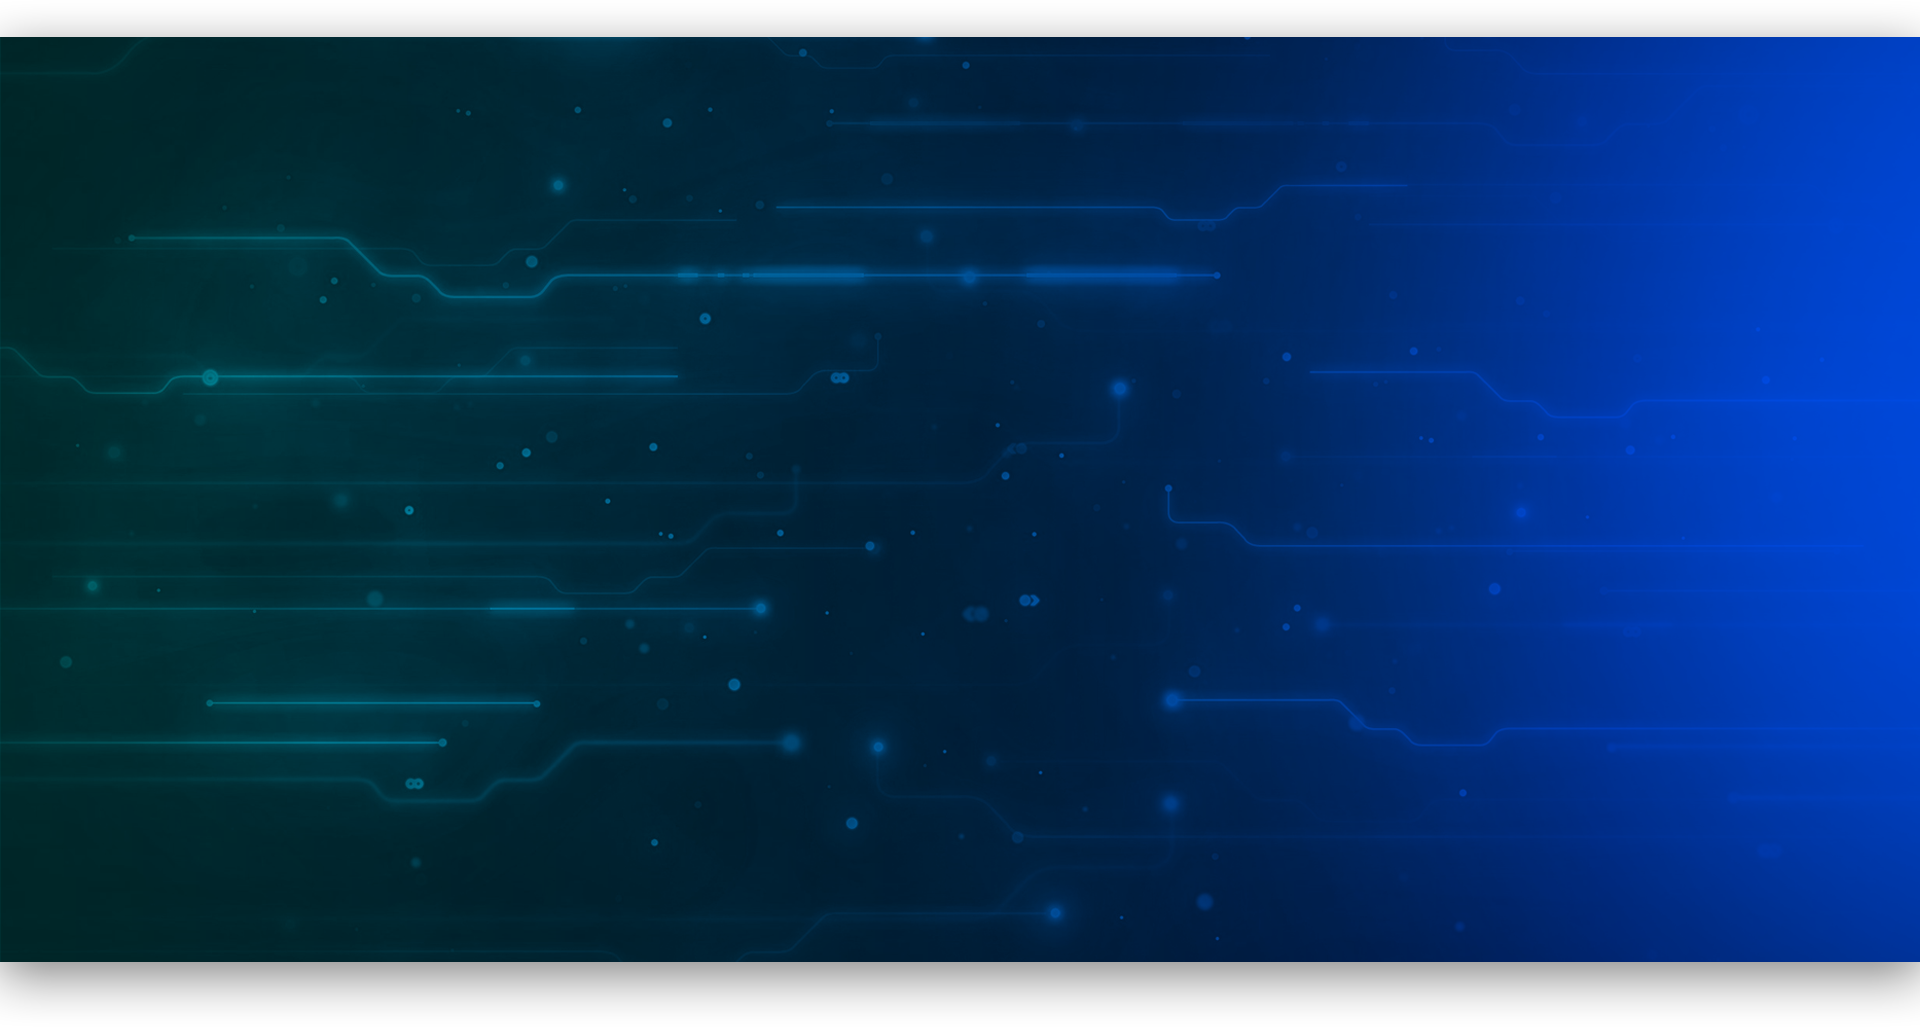
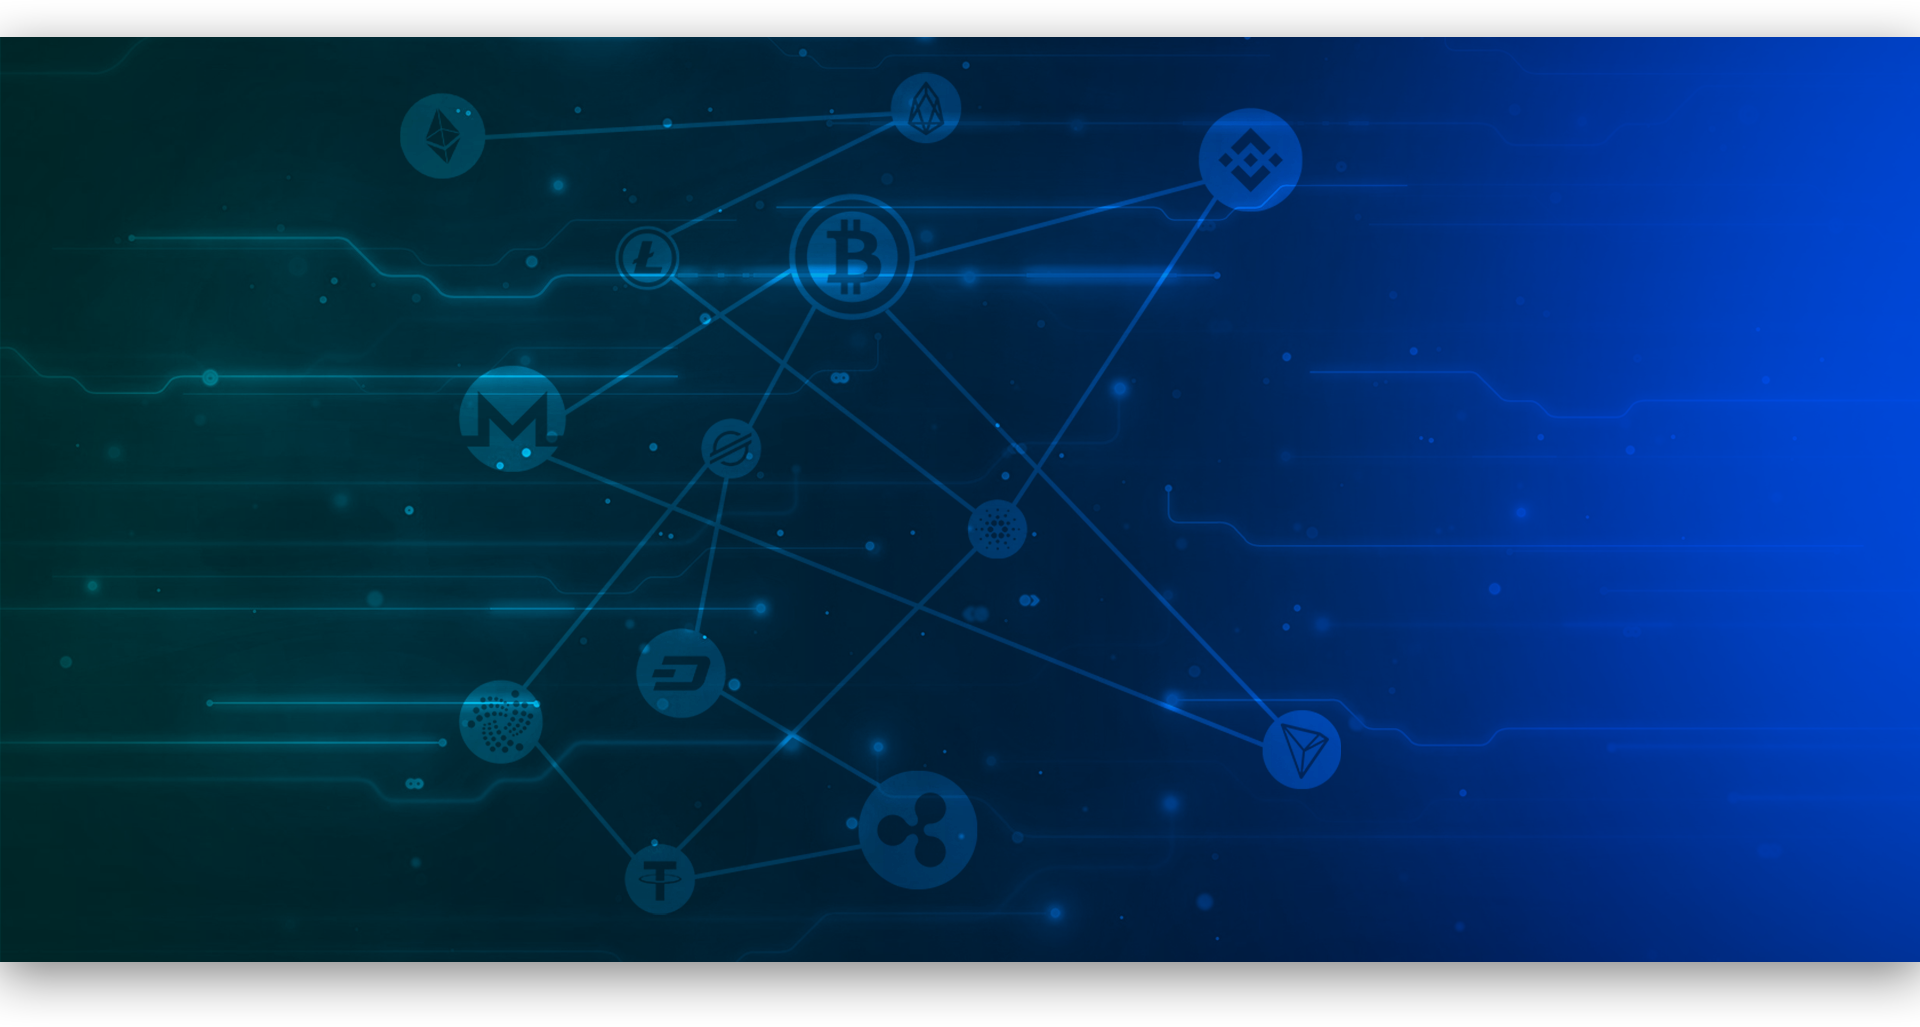
Adicionando o carousel

diff --git a/index.html b/index.html
@@ -5,10 +5,11 @@
       <meta charset="UTF-8">
       <meta name="viewport" content="width=device-width, initial-scale=1.0">
       <link href="https://fonts.googleapis.com/css?family=Poppins:400,700&display=swap" rel="stylesheet">
+      <link href="https://fonts.googleapis.com/css?family=Noto+Sans&display=swap" rel="stylesheet">
       <link rel="stylesheet" type="text/css" href="css/style.css" />
    </head>
    <body>
-      
+
       <!-- Start .\ Linha do topo -->
       <div id="header-line">
          <div class="container">
@@ -26,7 +27,7 @@
          </div>
       </div>      
       <!-- End .\ Linha do topo -->
-      
+
       <!-- Start .\ Header -->
       <header id="header">
          <div class="container">
@@ -43,13 +44,60 @@
          </div>
       </header>
       <!-- End .\ Header -->
-      
-      <!-- script's -->
-      <script src="js/script.js"></script>
-      <!-- End.\ footer -->        
 
-      <!-- jQuery library -->
+      <!-- Start .\ Carousel -->
+      <div id="carousel">
+         <div class="container">
+            <div class="carousel-item">
+               <div class="item-group">
+                  <h2>Elos antigos, <br /> novas conexões</h2>
+                  <p>Desde 2016, atuamos em múltiplas frente srelacionadas ao “mundo cripto”. 
+                     Somos defensores do livre mercado, da liberdade de escolha e o respeito aos direitos individuais.</p>
+                  <a href="#" class="btn">SAIBA MAIS</a>
+               </div>
+               <div class="item-group">
+                  <h2>Elos antigos, <br /> novas conexões 2</h2>
+                  <p>Desde 2016, atuamos em múltiplas frente srelacionadas ao “mundo cripto”. 
+                     Somos defensores do livre mercado, da liberdade de escolha e o respeito aos direitos individuais.</p>
+                  <a href="#" class="btn">SAIBA MAIS</a>
+               </div>
+               <div class="item-group">
+                  <h2>Elos antigos, <br /> novas conexões 3</h2>
+                  <p>Desde 2016, atuamos em múltiplas frente srelacionadas ao “mundo cripto”. 
+                     Somos defensores do livre mercado, da liberdade de escolha e o respeito aos direitos individuais.</p>
+                  <a href="#" class="btn">SAIBA MAIS</a>
+               </div>
+               <div class="item-group">
+                  <h2>Elos antigos, <br /> novas conexões 4</h2>
+                  <p>Desde 2016, atuamos em múltiplas frente srelacionadas ao “mundo cripto”. 
+                     Somos defensores do livre mercado, da liberdade de escolha e o respeito aos direitos individuais.</p>
+                  <a href="#" class="btn">SAIBA MAIS</a>
+               </div>
+               <div class="item-group">
+                  <h2>Elos antigos, <br /> novas conexões 5</h2>
+                  <p>Desde 2016, atuamos em múltiplas frente srelacionadas ao “mundo cripto”. 
+                     Somos defensores do livre mercado, da liberdade de escolha e o respeito aos direitos individuais.</p>
+                  <a href="#" class="btn">SAIBA MAIS</a>
+               </div>
+            </div>
+
+            <div class="carousel-controls">
+               <ul>
+                  <li data-target="#demo" data-slide-to="0" class="active"></li>
+                  <li data-target="#demo" data-slide-to="1"></li>
+                  <li data-target="#demo" data-slide-to="2"></li>
+                  <li data-target="#demo" data-slide-to="3"></li>
+                  <li data-target="#demo" data-slide-to="4"></li>
+               </ul>
+            </div>
+         </div>
+      </div>
+      <!-- Start .\ Carousel -->
+
+
+      <!-- Script's -->
       <script src="js/font-awesome.js"></script>
       <script src="js/jquery.min.js"></script>
+      <script src="js/script.js"></script>
    </body>
 </html>

diff --git a/css/scss/style.scss b/css/scss/style.scss
@@ -4,6 +4,7 @@
 */
 
 $primary: #0054ff;
+$secondary: #00fffc;
 
 body {
    margin: 0;
@@ -52,6 +53,7 @@ body {
             border-radius: 20px;
             margin-right: 42px;
             transition: 0.5s;
+            font-weight: 600;
 
             &:hover {
                color: #fff;
@@ -127,7 +129,7 @@ body {
                   color: #666666;
                   text-decoration: none;
                   padding-bottom: 12px;
-                  
+
                   &:hover {
                      color: #0054ff;
                      border-bottom: 5px solid #0054ff;
@@ -139,3 +141,95 @@ body {
    }
 }
 
+
+/* Style Carousel area */
+#carousel {
+   height: 918px;
+   display: flex;
+   justify-content: center;
+   background-image: url("../img/carousel-background.png");
+   background-position: center;
+   background-size: cover;
+
+   .container {
+      display: flex;
+      justify-content: flex-end;
+      position: relative;
+
+      .carousel-item {
+         display: flex;
+         align-items: center;
+         
+
+         .item-group {
+            width: 429px;
+            //margin-right: 70px;
+            //margin-bottom: 20px;
+            margin-right: 80px;
+            margin-bottom: 120px;
+            display: none;
+
+            h2 {
+               color: $secondary;
+               font-size: 45px;
+               font-weight: 900;
+               line-height: 53px;
+               margin-bottom: 20px;
+            }
+
+            p {
+               font-size: 22px;
+               line-height: 30px;
+               color: #fff;
+               font-family: 'Noto Sans', sans-serif;
+               margin-bottom: 50px;
+            }
+
+            .btn {
+               color: $secondary;
+               font-weight: 900;
+               font-size: 25px;
+               text-decoration: none;
+               border-radius: 80px;
+               border: 5px solid $secondary;
+               padding: 7px 70px;
+            }
+         }
+      }
+
+      .carousel-controls {
+         position: absolute;
+         bottom: 0;
+         left: 50%;
+         margin-bottom: 80px;
+         margin-left: -100px;
+         width: 200px;
+         text-align: center;
+
+         ul {
+            margin: 0;
+            padding: 0;
+            list-style: none;
+            
+            li {
+               display: inline-block;
+               padding: 7px;
+               margin: 0 5px;
+               border-radius: 50%;
+               cursor: pointer;
+               border: 2px solid $secondary;               
+            }
+            li.active {
+               background: $secondary;
+            }
+         }
+
+
+      }
+
+   }
+
+
+
+
+}

diff --git a/css/style.css b/css/style.css
@@ -41,7 +41,8 @@ body {
         text-align: center;
         border-radius: 20px;
         margin-right: 42px;
-        transition: 0.5s; }
+        transition: 0.5s;
+        font-weight: 600; }
         #header-line .container .right a.blog:hover {
           color: #fff;
           background: #00fbff; }
@@ -98,5 +99,67 @@ body {
             #header .container #navbar ul li a:hover {
               color: #0054ff;
               border-bottom: 5px solid #0054ff; }
+
+/* Style Carousel area */
+#carousel {
+  height: 918px;
+  display: flex;
+  justify-content: center;
+  background-image: url("../img/carousel-background.png");
+  background-position: center;
+  background-size: cover; }
+  #carousel .container {
+    display: flex;
+    justify-content: flex-end;
+    position: relative; }
+    #carousel .container .carousel-item {
+      display: flex;
+      align-items: center; }
+      #carousel .container .carousel-item .item-group {
+        width: 429px;
+        margin-right: 80px;
+        margin-bottom: 120px;
+        display: none; }
+        #carousel .container .carousel-item .item-group h2 {
+          color: #00fffc;
+          font-size: 45px;
+          font-weight: 900;
+          line-height: 53px;
+          margin-bottom: 20px; }
+        #carousel .container .carousel-item .item-group p {
+          font-size: 22px;
+          line-height: 30px;
+          color: #fff;
+          font-family: 'Noto Sans', sans-serif;
+          margin-bottom: 50px; }
+        #carousel .container .carousel-item .item-group .btn {
+          color: #00fffc;
+          font-weight: 900;
+          font-size: 25px;
+          text-decoration: none;
+          border-radius: 80px;
+          border: 5px solid #00fffc;
+          padding: 7px 70px; }
+    #carousel .container .carousel-controls {
+      position: absolute;
+      bottom: 0;
+      left: 50%;
+      margin-bottom: 80px;
+      margin-left: -100px;
+      width: 200px;
+      text-align: center; }
+      #carousel .container .carousel-controls ul {
+        margin: 0;
+        padding: 0;
+        list-style: none; }
+        #carousel .container .carousel-controls ul li {
+          display: inline-block;
+          padding: 7px;
+          margin: 0 5px;
+          border-radius: 50%;
+          cursor: pointer;
+          border: 2px solid #00fffc; }
+        #carousel .container .carousel-controls ul li.active {
+          background: #00fffc; }
 
 /*# sourceMappingURL=style.css.map */

diff --git a/js/script.js b/js/script.js
@@ -1,0 +1,37 @@
+$(document).ready(function () {
+
+   // Exibi o primeiro item do carousel
+   $("#carousel .item-group").first().show();
+   
+
+   // ao clicar no indicador do carousel
+   $(document).on('click', '.carousel-controls li', function () {
+      // Remove a classe de todos li controls
+      $('.carousel-controls li').removeClass('active');
+      // Adiciona a classe apenas no li control clicado
+      $(this).addClass('active');
+      // Pega o valor guardado na data-slide-to do item clicado
+      let slide_to = $(this).attr('data-slide-to');
+      // Oculta todos os sliders do carousel
+      $("#carousel .item-group").hide('fast');
+      // Mostra apenas o carousel que tiver com o indice igual o do data-slide-to clicado
+      $("#carousel .item-group:eq(" + slide_to + ")").show('slow');
+   });
+
+   
+   nextSlider();
+   function nextSlider() {
+      setInterval(function () {
+         let element = $('.carousel-controls li[class="active"]');
+         let next = parseInt(element.attr('data-slide-to')) + 1;
+         element.removeClass('active');
+         $(".carousel-controls li[data-slide-to= " + next + "]").addClass('active');
+         // Oculta todos os sliders do carousel
+         $("#carousel .item-group").hide('fast');
+         // Mostra apenas o carousel que tiver com o indice igual o do data-slide-to clicado
+         $("#carousel .item-group:eq(" + next + ")").show('slow');
+        
+      }, 3000);
+
+   }
+});
